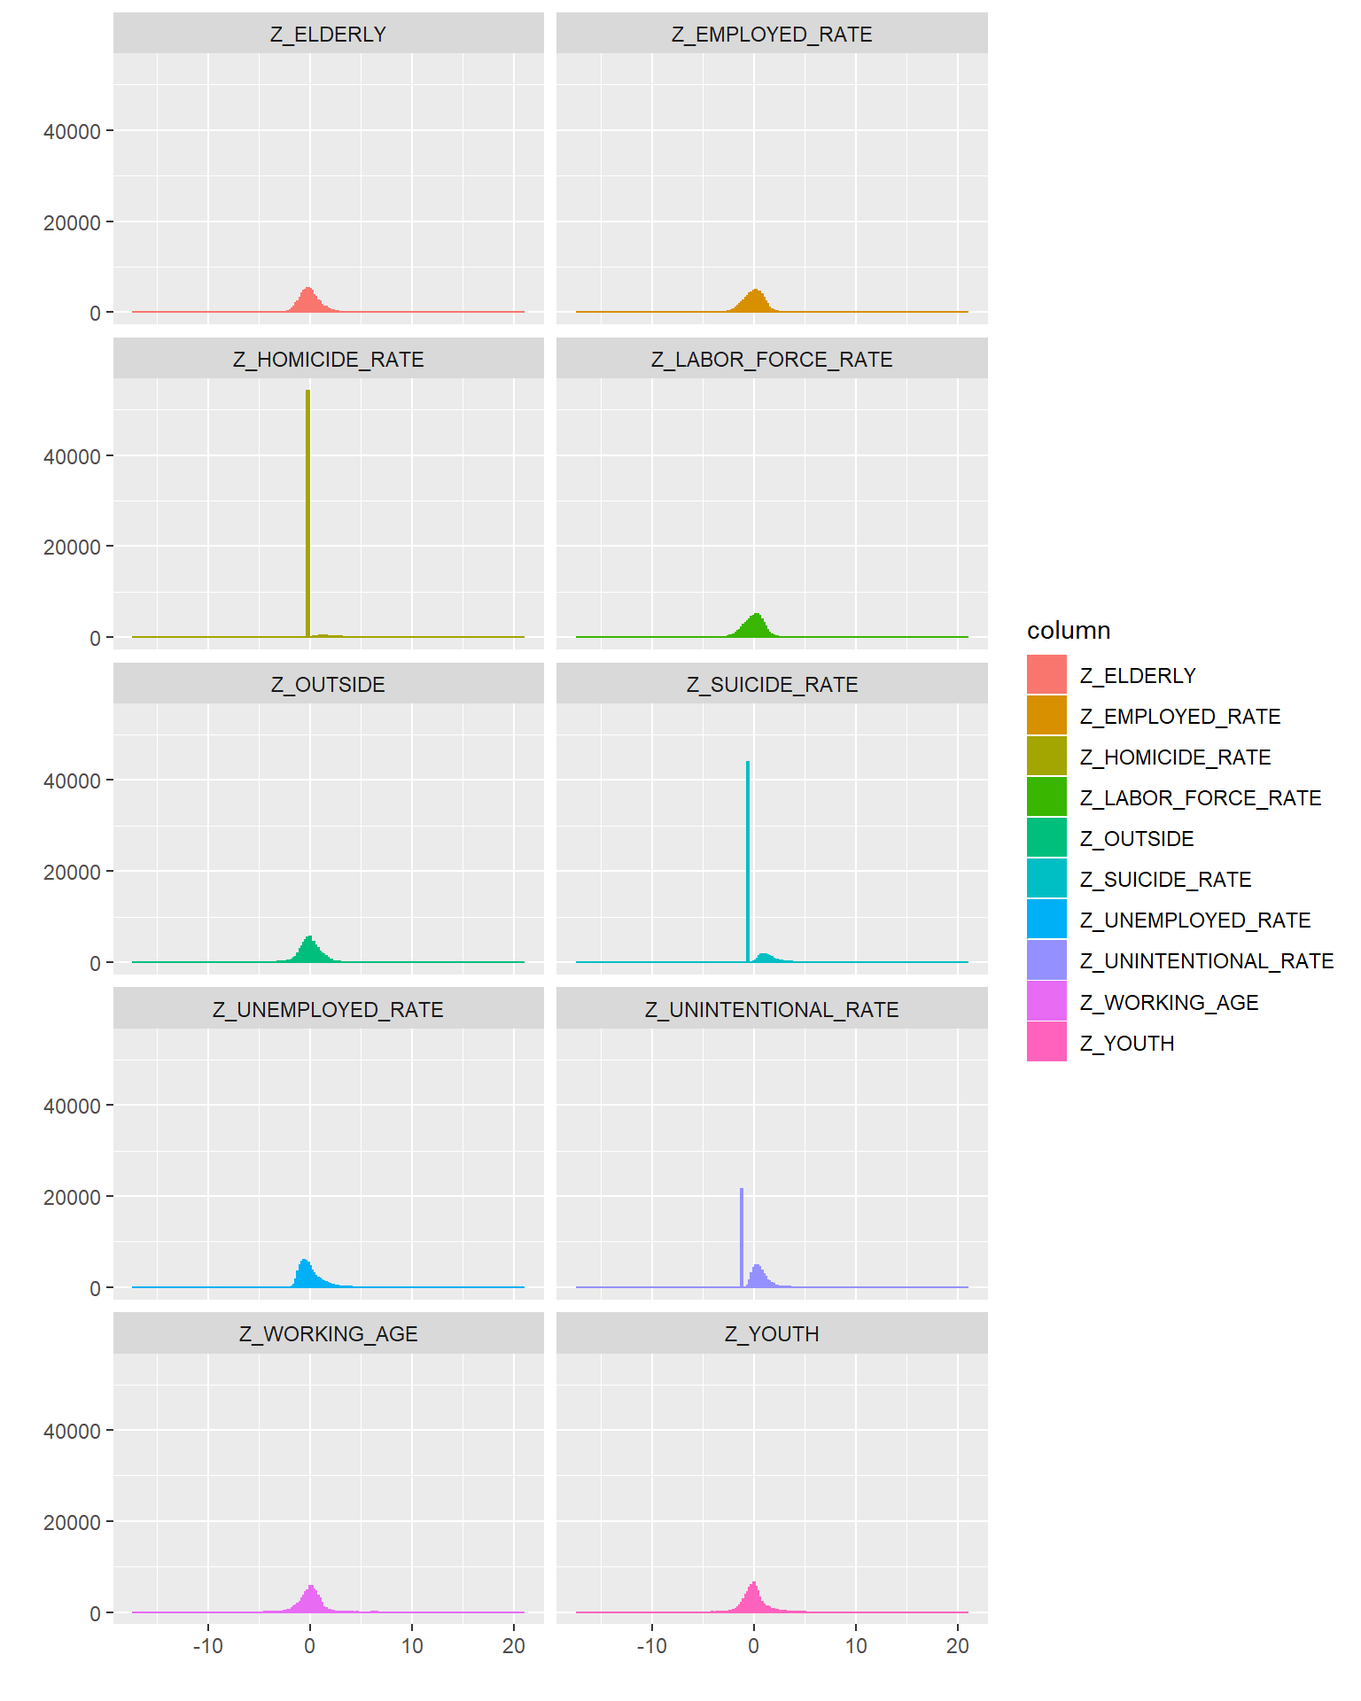
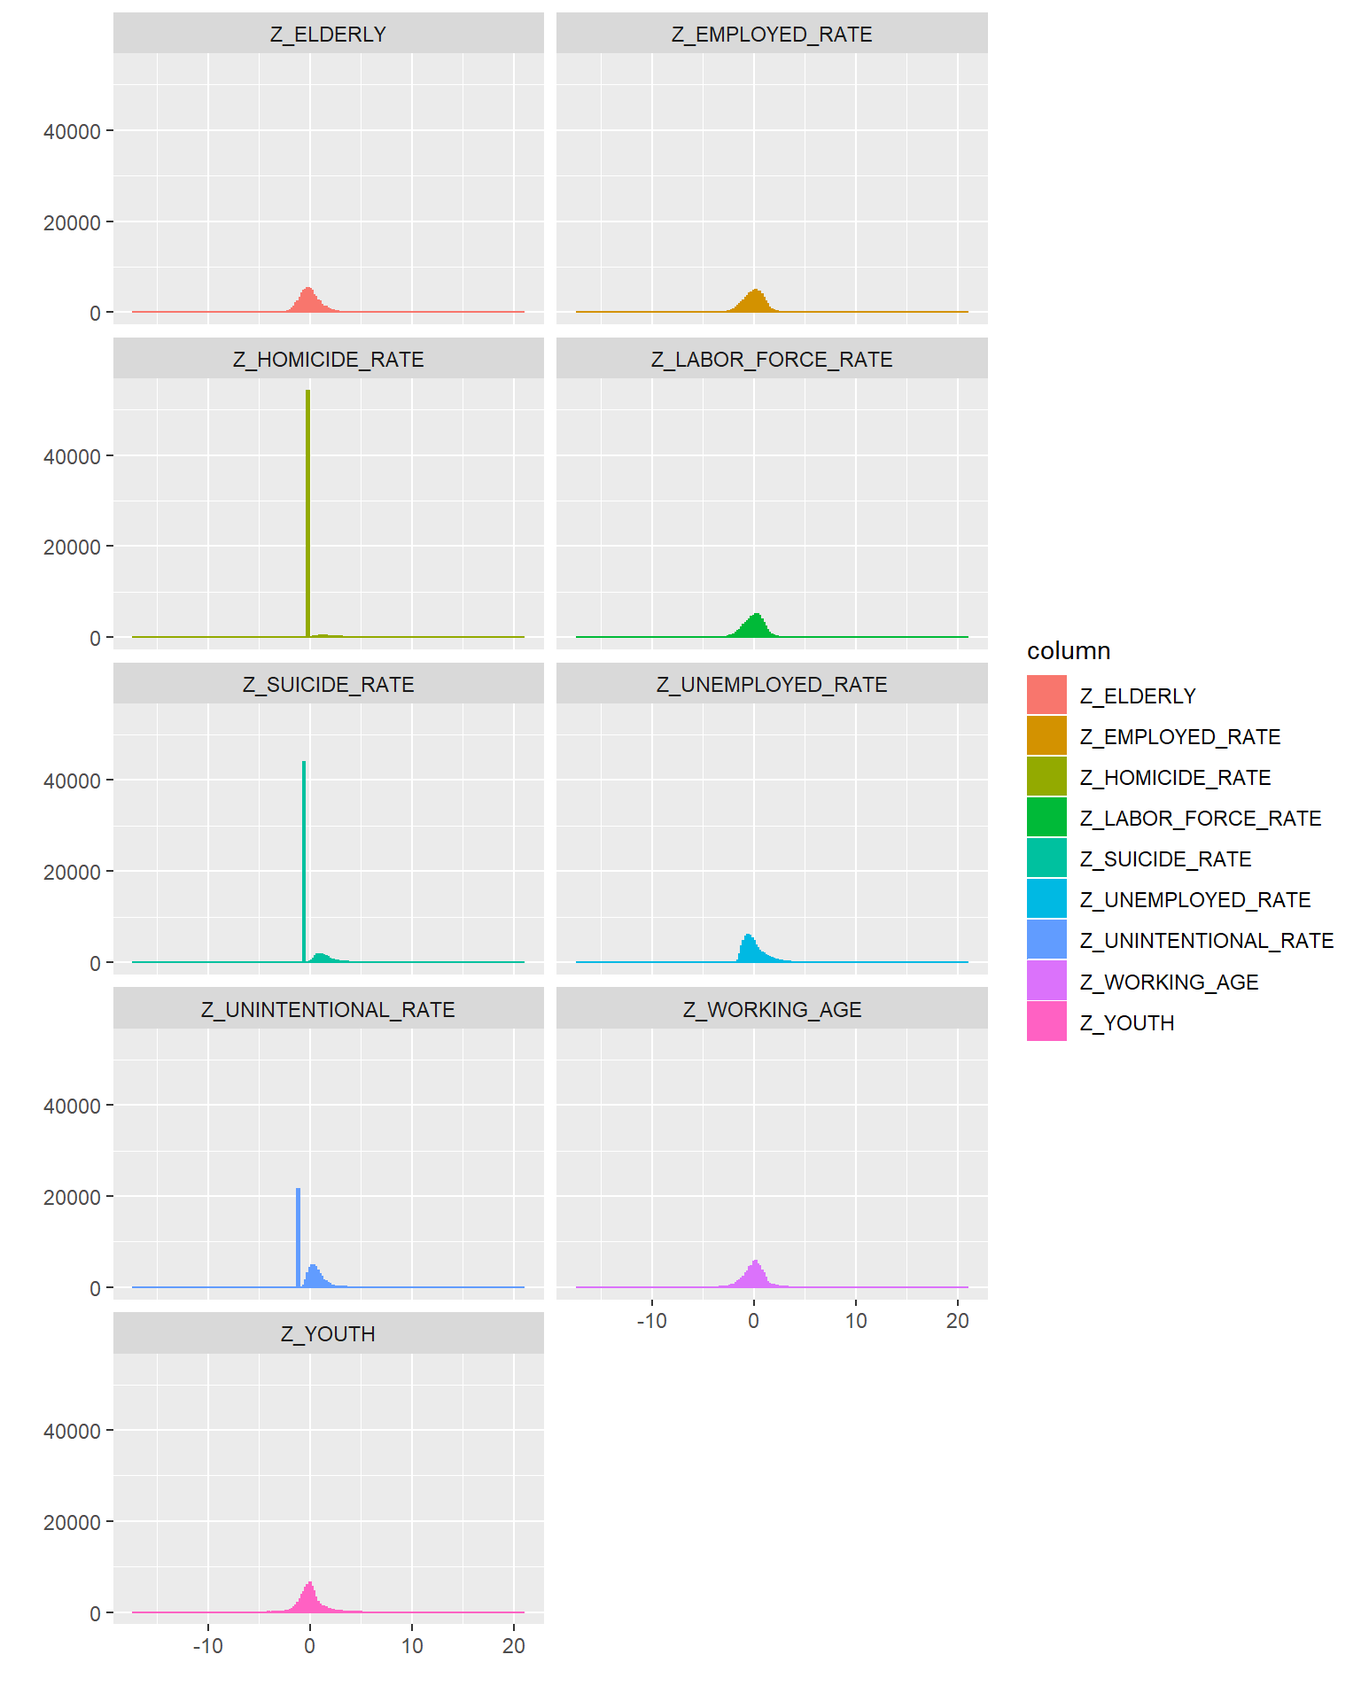
removed an OUTSIDE feature

diff --git a/docs/articles/Unemployment_Deaths.html b/docs/articles/Unemployment_Deaths.html
@@ -152,7 +152,7 @@
 <p>The data taken straight each census is the hardest to work with, as these are divided between multiple spreadsheets, some over 100MB, and dozens of features. To make this data more easily accessible, we are simply extracting the features we need. However, this data is merely a snapshot, so to fill in the years between we need estimates and projections. Fortunately, the census bureau has already made projects for after 2010 available up until 2018–expect 2019 in June.</p>
 <p>Similar estimates are available between 2000 and 2010, but only for states–so we will have to make these esitmates ourselves. The census bureau’s methodology in this case is to assume steady expotential growth between 2000 and 2010, so all we have to do is solve an exponential equation for t = 2000 and 2010, and then plug in t = 2001-2009 to get their populations.</p>
 <p>The main issue with the data instead arises from how the CDC data is distributed. There are a larger number of small counties which in a given year have no homicides or suicides–and a few that bafflingly even lack recorded unintentional deaths for the entire 20-year period we have data for.</p>
-<div class="sourceCode" id="cb2"><pre class="sourceCode r"><code class="sourceCode r"><a class="sourceLine" id="cb2-1" title="1">df &lt;-<span class="st"> </span>UnempDeaths<span class="op">::</span><span class="kw"><a href="https://rdrr.io/pkg/UnempDeaths/man/Build_Dataset.html">Build_Dataset</a></span>() <span class="op">%&gt;%</span></a>
+<div class="sourceCode" id="cb2"><pre class="sourceCode r"><code class="sourceCode r"><a class="sourceLine" id="cb2-1" title="1">df &lt;-<span class="st"> </span>UnempDeaths<span class="op">::</span><span class="kw"><a href="https://rdrr.io/pkg/UnempDeaths/man/GetCleanedData.html">GetCleanedData</a></span>() <span class="op">%&gt;%</span></a>
 <a class="sourceLine" id="cb2-2" title="2"><span class="st">  </span>dplyr<span class="op">::</span><span class="kw"><a href="https://dplyr.tidyverse.org/reference/select.html">select</a></span>(<span class="op">-</span><span class="st"> 'ESTIMATED'</span>, <span class="op">-</span><span class="st"> 'WATER'</span>, <span class="op">-</span><span class="st"> 'AGG_INCOME'</span>, <span class="op">-</span><span class="st"> 'PCI_2016'</span>, <span class="op">-</span><span class="st"> 'RATE_UNEMPLOYED'</span>, <span class="op">-</span><span class="st"> 'ZRATE'</span>, <span class="op">-</span><span class="st"> 'BAD_YEARS'</span> )<span class="op">%&gt;%</span></a>
 <a class="sourceLine" id="cb2-3" title="3"><span class="st">  </span>dplyr<span class="op">::</span><span class="kw"><a href="https://dplyr.tidyverse.org/reference/mutate.html">mutate</a></span>(<span class="st">'YOUTH'</span> =<span class="st"> </span>.data<span class="op">$</span>YOUTH <span class="op">-</span><span class="st"> </span>.data<span class="op">$</span>WORKING_AGE <span class="op">*</span><span class="st"> </span><span class="fl">0.02</span>,</a>
 <a class="sourceLine" id="cb2-4" title="4">                <span class="st">'ELDERLY'</span> =<span class="st"> </span>.data<span class="op">$</span>ELDERLY <span class="op">-</span><span class="st"> </span>.data<span class="op">$</span>WORKING_AGE <span class="op">*</span><span class="st"> </span><span class="fl">0.02</span>) <span class="op">%&gt;%</span></a>
@@ -172,7 +172,7 @@
 <a class="sourceLine" id="cb2-18" title="18">                                               <span class="dv">0</span>,</a>
 <a class="sourceLine" id="cb2-19" title="19">                                               .data<span class="op">$</span>DISCOURAGED ) )</a>
 <a class="sourceLine" id="cb2-20" title="20">df</a>
-<a class="sourceLine" id="cb2-21" title="21"><span class="co">#&gt; # A tibble: 59,599 x 20</span></a>
+<a class="sourceLine" id="cb2-21" title="21"><span class="co">#&gt; # A tibble: 59,599 x 19</span></a>
 <a class="sourceLine" id="cb2-22" title="22"><span class="co">#&gt;    LONG_ID  YEAR COUNTY LABOR_FORCE EMPLOYED  LAND   LAT  LONG    POP SUICIDE</span></a>
 <a class="sourceLine" id="cb2-23" title="23"><span class="co">#&gt;    &lt;chr&gt;   &lt;dbl&gt; &lt;chr&gt;        &lt;dbl&gt;    &lt;dbl&gt; &lt;dbl&gt; &lt;dbl&gt; &lt;dbl&gt;  &lt;dbl&gt;   &lt;dbl&gt;</span></a>
 <a class="sourceLine" id="cb2-24" title="24"><span class="co">#&gt;  1 01001 ~  2018 Autau~       26196    25261  601.  32.5 -86.5  55533      11</span></a>
@@ -185,10 +185,9 @@
 <a class="sourceLine" id="cb2-31" title="31"><span class="co">#&gt;  8 01015 ~  2018 Calho~       46307    44191  613.  33.7 -85.8 114331      25</span></a>
 <a class="sourceLine" id="cb2-32" title="32"><span class="co">#&gt;  9 01017 ~  2018 Chamb~       15366    14775  604.  32.9 -85.3  33600       0</span></a>
 <a class="sourceLine" id="cb2-33" title="33"><span class="co">#&gt; 10 01019 ~  2018 Chero~       11688    11276  560.  34.2 -85.6  26014       0</span></a>
-<a class="sourceLine" id="cb2-34" title="34"><span class="co">#&gt; # ... with 59,589 more rows, and 10 more variables: HOMICIDE &lt;dbl&gt;,</span></a>
+<a class="sourceLine" id="cb2-34" title="34"><span class="co">#&gt; # ... with 59,589 more rows, and 9 more variables: HOMICIDE &lt;dbl&gt;,</span></a>
 <a class="sourceLine" id="cb2-35" title="35"><span class="co">#&gt; #   UNINTENTIONAL &lt;dbl&gt;, UNDETERMINED &lt;dbl&gt;, UNEMPLOYED &lt;dbl&gt;, DENSITY &lt;dbl&gt;,</span></a>
-<a class="sourceLine" id="cb2-36" title="36"><span class="co">#&gt; #   ELDERLY &lt;dbl&gt;, WORKING_AGE &lt;dbl&gt;, YOUTH &lt;dbl&gt;, OUTSIDE &lt;dbl&gt;,</span></a>
-<a class="sourceLine" id="cb2-37" title="37"><span class="co">#&gt; #   DISCOURAGED &lt;dbl&gt;</span></a></code></pre></div>
+<a class="sourceLine" id="cb2-36" title="36"><span class="co">#&gt; #   ELDERLY &lt;dbl&gt;, WORKING_AGE &lt;dbl&gt;, YOUTH &lt;dbl&gt;, DISCOURAGED &lt;dbl&gt;</span></a></code></pre></div>
 <div class="sourceCode" id="cb3"><pre class="sourceCode r"><code class="sourceCode r"><a class="sourceLine" id="cb3-1" title="1"><span class="kw"><a href="https://rdrr.io/r/base/summary.html">summary</a></span>(df)</a>
 <a class="sourceLine" id="cb3-2" title="2"><span class="co">#&gt;    LONG_ID               YEAR         COUNTY           LABOR_FORCE     </span></a>
 <a class="sourceLine" id="cb3-3" title="3"><span class="co">#&gt;  Length:59599       Min.   :2000   Length:59599       Min.   :     38  </span></a>
@@ -218,13 +217,13 @@
 <a class="sourceLine" id="cb3-27" title="27"><span class="co">#&gt;  Mean   :  0.8457   Mean   :  2919   Mean   :  255.40   Mean   :  12240.3  </span></a>
 <a class="sourceLine" id="cb3-28" title="28"><span class="co">#&gt;  3rd Qu.:  0.0000   3rd Qu.:  1920   3rd Qu.:  110.84   3rd Qu.:   9210.8  </span></a>
 <a class="sourceLine" id="cb3-29" title="29"><span class="co">#&gt;  Max.   :488.0000   Max.   :615101   Max.   :71378.87   Max.   :1246402.4  </span></a>
-<a class="sourceLine" id="cb3-30" title="30"><span class="co">#&gt;   WORKING_AGE          YOUTH            OUTSIDE         DISCOURAGED     </span></a>
-<a class="sourceLine" id="cb3-31" title="31"><span class="co">#&gt;  Min.   :    -11   Min.   :      6   Min.   :     15   Min.   :      0  </span></a>
-<a class="sourceLine" id="cb3-32" title="32"><span class="co">#&gt;  1st Qu.:   6466   1st Qu.:   2716   1st Qu.:   4854   1st Qu.:   1013  </span></a>
-<a class="sourceLine" id="cb3-33" title="33"><span class="co">#&gt;  Median :  15282   Median :   6370   Median :  10872   Median :   3116  </span></a>
-<a class="sourceLine" id="cb3-34" title="34"><span class="co">#&gt;  Mean   :  60367   Mean   :  24811   Mean   :  39362   Mean   :  11813  </span></a>
-<a class="sourceLine" id="cb3-35" title="35"><span class="co">#&gt;  3rd Qu.:  39999   3rd Qu.:  16496   3rd Qu.:  27369   3rd Qu.:   8273  </span></a>
-<a class="sourceLine" id="cb3-36" title="36"><span class="co">#&gt;  Max.   :6545194   Max.   :3314656   Max.   :4279482   Max.   :1549097</span></a></code></pre></div>
+<a class="sourceLine" id="cb3-30" title="30"><span class="co">#&gt;   WORKING_AGE          YOUTH          DISCOURAGED     </span></a>
+<a class="sourceLine" id="cb3-31" title="31"><span class="co">#&gt;  Min.   :    -11   Min.   :      6   Min.   :      0  </span></a>
+<a class="sourceLine" id="cb3-32" title="32"><span class="co">#&gt;  1st Qu.:   6466   1st Qu.:   2716   1st Qu.:   1013  </span></a>
+<a class="sourceLine" id="cb3-33" title="33"><span class="co">#&gt;  Median :  15282   Median :   6370   Median :   3116  </span></a>
+<a class="sourceLine" id="cb3-34" title="34"><span class="co">#&gt;  Mean   :  60367   Mean   :  24811   Mean   :  11813  </span></a>
+<a class="sourceLine" id="cb3-35" title="35"><span class="co">#&gt;  3rd Qu.:  39999   3rd Qu.:  16496   3rd Qu.:   8273  </span></a>
+<a class="sourceLine" id="cb3-36" title="36"><span class="co">#&gt;  Max.   :6545194   Max.   :3314656   Max.   :1549097</span></a></code></pre></div>
 </div>
 <div id="data-preparation" class="section level2">
 <h2 class="hasAnchor">
@@ -266,7 +265,7 @@
 <div class="sourceCode" id="cb5"><pre class="sourceCode r"><code class="sourceCode r"><a class="sourceLine" id="cb5-1" title="1">df <span class="op">%&gt;%</span></a>
 <a class="sourceLine" id="cb5-2" title="2"><span class="st">  </span>dplyr<span class="op">::</span><span class="kw"><a href="https://dplyr.tidyverse.org/reference/mutate.html">transmute</a></span>(<span class="st">"Z_HOMICIDE_RATE"</span> =<span class="st"> </span>.data<span class="op">$</span>HOMICIDE <span class="op">/</span><span class="st"> </span>.data<span class="op">$</span>POP, <span class="st">'Z_SUICIDE_RATE'</span> =<span class="st"> </span>.data<span class="op">$</span>SUICIDE <span class="op">/</span><span class="st"> </span>.data<span class="op">$</span>POP,</a>
 <a class="sourceLine" id="cb5-3" title="3">                   <span class="st">'Z_UNINTENTIONAL_RATE'</span> =<span class="st"> </span>.data<span class="op">$</span>UNINTENTIONAL <span class="op">/</span><span class="st"> </span>.data<span class="op">$</span>POP, <span class="st">'Z_LABOR_FORCE_RATE'</span> =<span class="st"> </span>.data<span class="op">$</span>LABOR_FORCE <span class="op">/</span><span class="st"> </span>.data<span class="op">$</span>POP,</a>
-<a class="sourceLine" id="cb5-4" title="4">                   <span class="st">'Z_OUTSIDE'</span> =<span class="st"> </span>.data<span class="op">$</span>OUTSIDE <span class="op">/</span><span class="st"> </span>.data<span class="op">$</span>POP, <span class="st">'Z_EMPLOYED_RATE'</span> =<span class="st"> </span>.data<span class="op">$</span>EMPLOYED <span class="op">/</span><span class="st"> </span>.data<span class="op">$</span>POP,</a>
+<a class="sourceLine" id="cb5-4" title="4">                   <span class="st">'Z_EMPLOYED_RATE'</span> =<span class="st"> </span>.data<span class="op">$</span>EMPLOYED <span class="op">/</span><span class="st"> </span>.data<span class="op">$</span>POP,</a>
 <a class="sourceLine" id="cb5-5" title="5">                   <span class="st">'Z_UNEMPLOYED_RATE'</span> =<span class="st"> </span>.data<span class="op">$</span>UNEMPLOYED <span class="op">/</span><span class="st"> </span>.data<span class="op">$</span>POP, <span class="st">'Z_WORKING_AGE'</span> =<span class="st"> </span>.data<span class="op">$</span>WORKING_AGE <span class="op">/</span><span class="st"> </span>.data<span class="op">$</span>POP,</a>
 <a class="sourceLine" id="cb5-6" title="6">                   <span class="st">'Z_ELDERLY'</span> =<span class="st"> </span>.data<span class="op">$</span>ELDERLY <span class="op">/</span><span class="st"> </span>.data<span class="op">$</span>POP, <span class="st">'Z_YOUTH'</span> =<span class="st"> </span>.data<span class="op">$</span>YOUTH <span class="op">/</span><span class="st"> </span>.data<span class="op">$</span>POP,) <span class="op">%&gt;%</span></a>
 <a class="sourceLine" id="cb5-7" title="7"><span class="st">  </span>dplyr<span class="op">::</span><span class="kw"><a href="https://dplyr.tidyverse.org/reference/mutate_all.html">mutate_all</a></span>( <span class="cf">function</span>(x){ <span class="kw"><a href="https://rdrr.io/r/base/function.html">return</a></span>(( x <span class="op">-</span><span class="st"> </span><span class="kw"><a href="https://rdrr.io/r/base/mean.html">mean</a></span>(x) )<span class="op">/</span><span class="kw"><a href="https://rdrr.io/r/stats/sd.html">sd</a></span>( x ) ) }) <span class="op">%&gt;%</span></a>
@@ -313,7 +312,7 @@
 <a class="sourceLine" id="cb8-2" title="2"><span class="st">  </span>UnempDeaths<span class="op">:::</span><span class="kw"><a href="../reference/ClusterData.html">ClusterData</a></span>(<span class="dv">750</span>) <span class="op">%&gt;%</span></a>
 <a class="sourceLine" id="cb8-3" title="3"><span class="st">  </span>dplyr<span class="op">::</span><span class="kw"><a href="https://dplyr.tidyverse.org/reference/mutate.html">transmute</a></span>(<span class="st">"Z_HOMICIDE_RATE"</span> =<span class="st"> </span>.data<span class="op">$</span>HOMICIDE <span class="op">/</span><span class="st"> </span>.data<span class="op">$</span>POP, <span class="st">'Z_SUICIDE_RATE'</span> =<span class="st"> </span>.data<span class="op">$</span>SUICIDE <span class="op">/</span><span class="st"> </span>.data<span class="op">$</span>POP,</a>
 <a class="sourceLine" id="cb8-4" title="4">                   <span class="st">'Z_UNINTENTIONAL_RATE'</span> =<span class="st"> </span>.data<span class="op">$</span>UNINTENTIONAL <span class="op">/</span><span class="st"> </span>.data<span class="op">$</span>POP, <span class="st">'Z_LABOR_FORCE_RATE'</span> =<span class="st"> </span>.data<span class="op">$</span>LABOR_FORCE <span class="op">/</span><span class="st"> </span>.data<span class="op">$</span>POP,</a>
-<a class="sourceLine" id="cb8-5" title="5">                   <span class="st">'Z_OUTSIDE_RATE'</span> =<span class="st"> </span>.data<span class="op">$</span>OUTSIDE <span class="op">/</span><span class="st"> </span>.data<span class="op">$</span>POP, <span class="st">'Z_EMPLOYED_RATE'</span> =<span class="st"> </span>.data<span class="op">$</span>EMPLOYED <span class="op">/</span><span class="st"> </span>.data<span class="op">$</span>POP,</a>
+<a class="sourceLine" id="cb8-5" title="5">                   <span class="st">'Z_EMPLOYED_RATE'</span> =<span class="st"> </span>.data<span class="op">$</span>EMPLOYED <span class="op">/</span><span class="st"> </span>.data<span class="op">$</span>POP,</a>
 <a class="sourceLine" id="cb8-6" title="6">                   <span class="st">'Z_UNEMPLOYED_RATE'</span> =<span class="st"> </span>.data<span class="op">$</span>UNEMPLOYED <span class="op">/</span><span class="st"> </span>.data<span class="op">$</span>POP, <span class="st">'Z_WORKING_AGE'</span> =<span class="st"> </span>.data<span class="op">$</span>WORKING_AGE <span class="op">/</span><span class="st"> </span>.data<span class="op">$</span>POP,</a>
 <a class="sourceLine" id="cb8-7" title="7">                   <span class="st">'Z_ELDERLY'</span> =<span class="st"> </span>.data<span class="op">$</span>ELDERLY <span class="op">/</span><span class="st"> </span>.data<span class="op">$</span>POP, <span class="st">'Z_YOUTH'</span> =<span class="st"> </span>.data<span class="op">$</span>YOUTH <span class="op">/</span><span class="st"> </span>.data<span class="op">$</span>POP,</a>
 <a class="sourceLine" id="cb8-8" title="8">                   <span class="st">'CLUSTER'</span> =<span class="st"> </span>.data<span class="op">$</span>CLUSTER) <span class="op">%&gt;%</span></a>

diff --git a/docs/articles/Codeless_Unemployment_Deaths.html b/docs/articles/Codeless_Unemployment_Deaths.html
@@ -139,7 +139,7 @@
 <p>The data taken straight each census is the hardest to work with, as these are divided between multiple spreadsheets, some over 100MB, and dozens of features. To make this data more easily accessible, we are simply extracting the features we need. However, this data is merely a snapshot, so to fill in the years between we need estimates and projections. Fortunately, the census bureau has already made projects for after 2010 available up until 2018–expect 2019 in June.</p>
 <p>Similar estimates are available between 2000 and 2010, but only for states–so we will have to make these esitmates ourselves. The census bureau’s methodology in this case is to assume steady expotential growth between 2000 and 2010, so all we have to do is solve an exponential equation for t = 2000 and 2010, and then plug in t = 2001-2009 to get their populations.</p>
 <p>The main issue with the data instead arises from how the CDC data is distributed. There are a larger number of small counties which in a given year have no homicides or suicides–and a few that bafflingly even lack recorded unintentional deaths for the entire 20-year period we have data for.</p>
-<pre><code>#&gt; # A tibble: 59,599 x 20
+<pre><code>#&gt; # A tibble: 59,599 x 19
 #&gt;    LONG_ID  YEAR COUNTY LABOR_FORCE EMPLOYED  LAND   LAT  LONG    POP SUICIDE
 #&gt;    &lt;chr&gt;   &lt;dbl&gt; &lt;chr&gt;        &lt;dbl&gt;    &lt;dbl&gt; &lt;dbl&gt; &lt;dbl&gt; &lt;dbl&gt;  &lt;dbl&gt;   &lt;dbl&gt;
 #&gt;  1 01001 ~  2018 Autau~       26196    25261  601.  32.5 -86.5  55533      11
@@ -152,10 +152,9 @@
 #&gt;  8 01015 ~  2018 Calho~       46307    44191  613.  33.7 -85.8 114331      25
 #&gt;  9 01017 ~  2018 Chamb~       15366    14775  604.  32.9 -85.3  33600       0
 #&gt; 10 01019 ~  2018 Chero~       11688    11276  560.  34.2 -85.6  26014       0
-#&gt; # ... with 59,589 more rows, and 10 more variables: HOMICIDE &lt;dbl&gt;,
+#&gt; # ... with 59,589 more rows, and 9 more variables: HOMICIDE &lt;dbl&gt;,
 #&gt; #   UNINTENTIONAL &lt;dbl&gt;, UNDETERMINED &lt;dbl&gt;, UNEMPLOYED &lt;dbl&gt;, DENSITY &lt;dbl&gt;,
-#&gt; #   ELDERLY &lt;dbl&gt;, WORKING_AGE &lt;dbl&gt;, YOUTH &lt;dbl&gt;, OUTSIDE &lt;dbl&gt;,
-#&gt; #   DISCOURAGED &lt;dbl&gt;</code></pre>
+#&gt; #   ELDERLY &lt;dbl&gt;, WORKING_AGE &lt;dbl&gt;, YOUTH &lt;dbl&gt;, DISCOURAGED &lt;dbl&gt;</code></pre>
 <pre><code>#&gt;    LONG_ID               YEAR         COUNTY           LABOR_FORCE     
 #&gt;  Length:59599       Min.   :2000   Length:59599       Min.   :     38  
 #&gt;  Class :character   1st Qu.:2004   Class :character   1st Qu.:   5089  
@@ -184,13 +183,13 @@
 #&gt;  Mean   :  0.8457   Mean   :  2919   Mean   :  255.40   Mean   :  12240.3  
 #&gt;  3rd Qu.:  0.0000   3rd Qu.:  1920   3rd Qu.:  110.84   3rd Qu.:   9210.8  
 #&gt;  Max.   :488.0000   Max.   :615101   Max.   :71378.87   Max.   :1246402.4  
-#&gt;   WORKING_AGE          YOUTH            OUTSIDE         DISCOURAGED     
-#&gt;  Min.   :    -11   Min.   :      6   Min.   :     15   Min.   :      0  
-#&gt;  1st Qu.:   6466   1st Qu.:   2716   1st Qu.:   4854   1st Qu.:   1013  
-#&gt;  Median :  15282   Median :   6370   Median :  10872   Median :   3116  
-#&gt;  Mean   :  60367   Mean   :  24811   Mean   :  39362   Mean   :  11813  
-#&gt;  3rd Qu.:  39999   3rd Qu.:  16496   3rd Qu.:  27369   3rd Qu.:   8273  
-#&gt;  Max.   :6545194   Max.   :3314656   Max.   :4279482   Max.   :1549097</code></pre>
+#&gt;   WORKING_AGE          YOUTH          DISCOURAGED     
+#&gt;  Min.   :    -11   Min.   :      6   Min.   :      0  
+#&gt;  1st Qu.:   6466   1st Qu.:   2716   1st Qu.:   1013  
+#&gt;  Median :  15282   Median :   6370   Median :   3116  
+#&gt;  Mean   :  60367   Mean   :  24811   Mean   :  11813  
+#&gt;  3rd Qu.:  39999   3rd Qu.:  16496   3rd Qu.:   8273  
+#&gt;  Max.   :6545194   Max.   :3314656   Max.   :1549097</code></pre>
 </div>
 <div id="data-preparation" class="section level2">
 <h2 class="hasAnchor">

diff --git a/docs/index.html b/docs/index.html
@@ -90,7 +90,9 @@
     <div class="license">
 <h2>License</h2>
 <ul class="list-unstyled">
-<li><a href="https://www.r-project.org/Licenses/GPL-3">GPL-3</a></li>
+<li>
+<a href="https://www.r-project.org/Licenses/GPL-3">GPL-3</a> + file <a href="LICENSE-text.html">LICENSE</a>
+</li>
 </ul>
 </div>
 <div class="developers">
